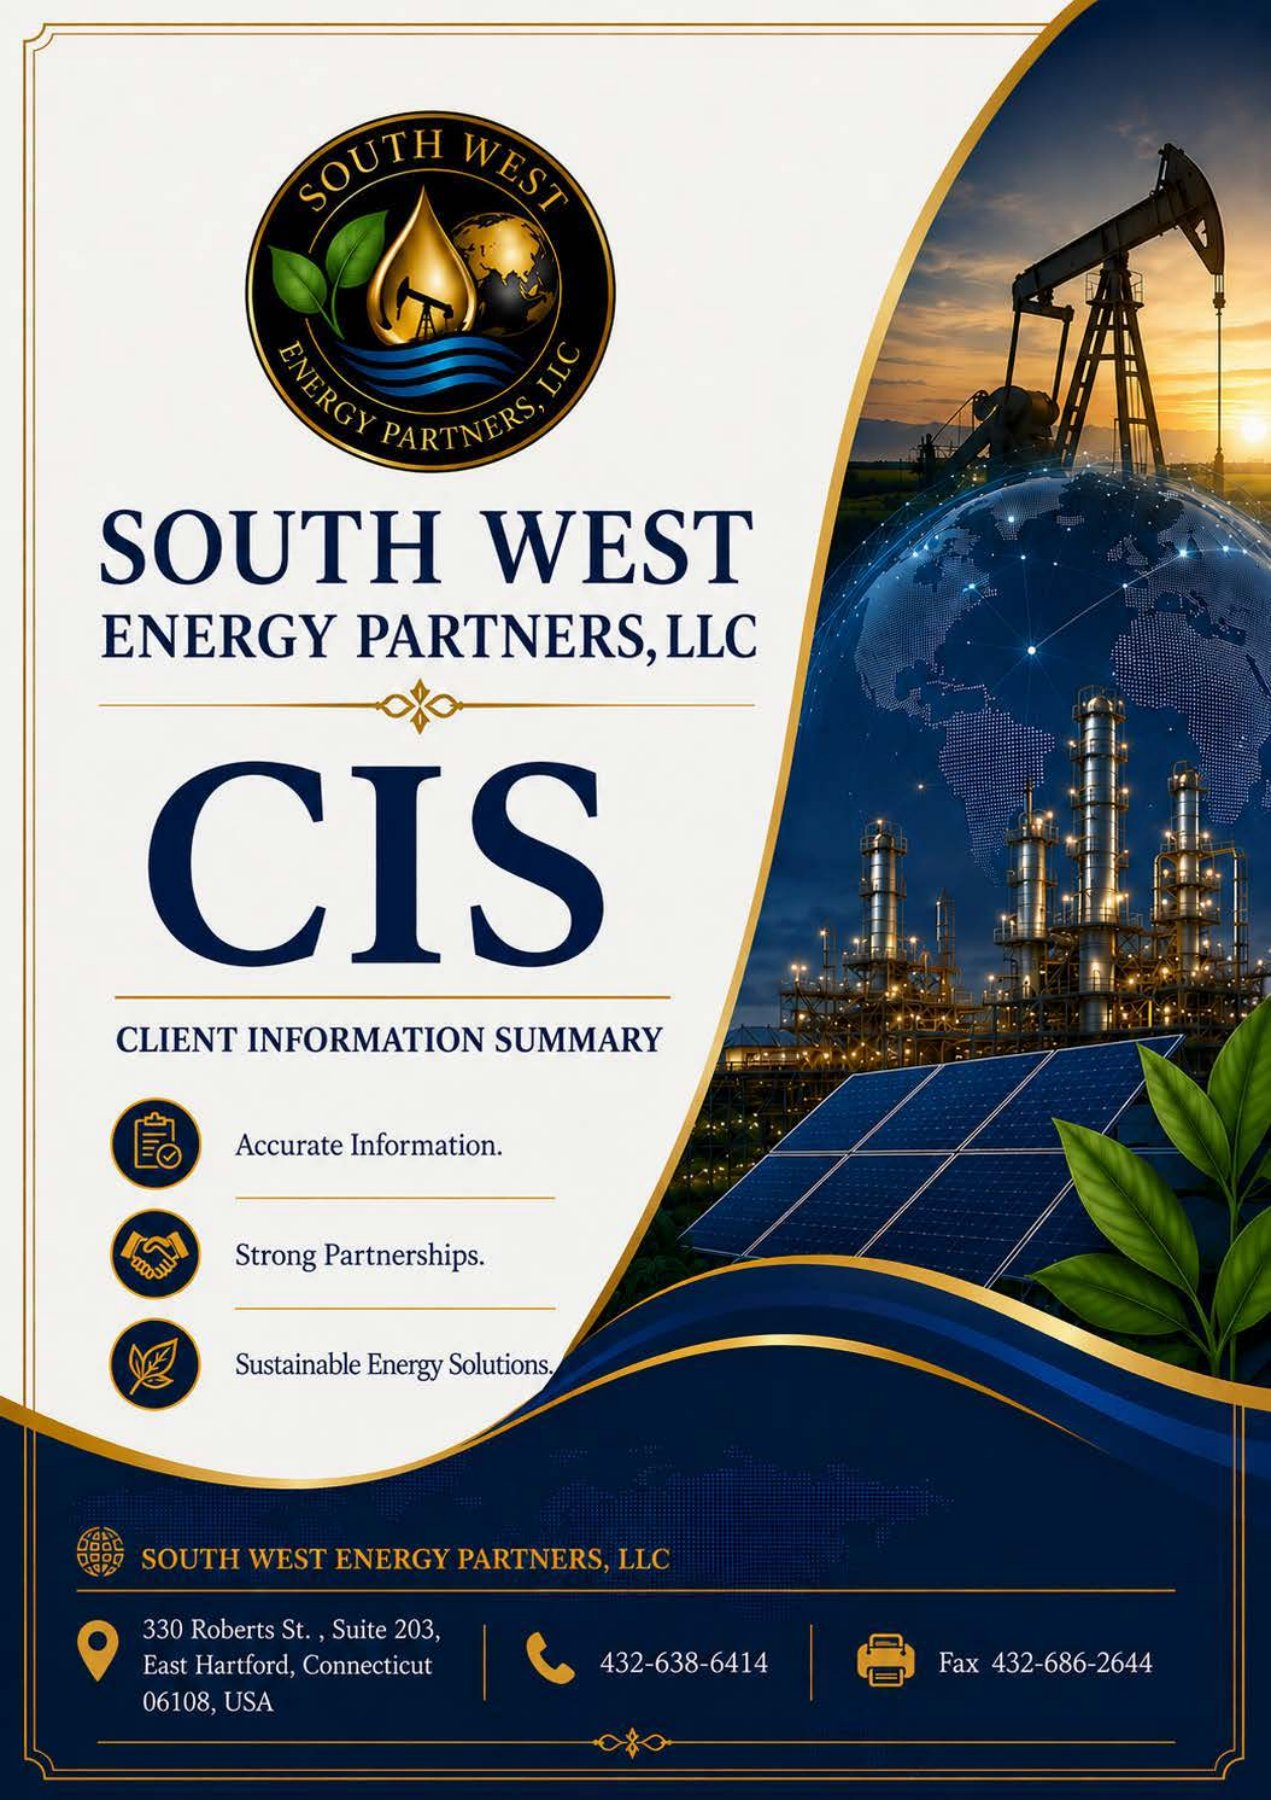
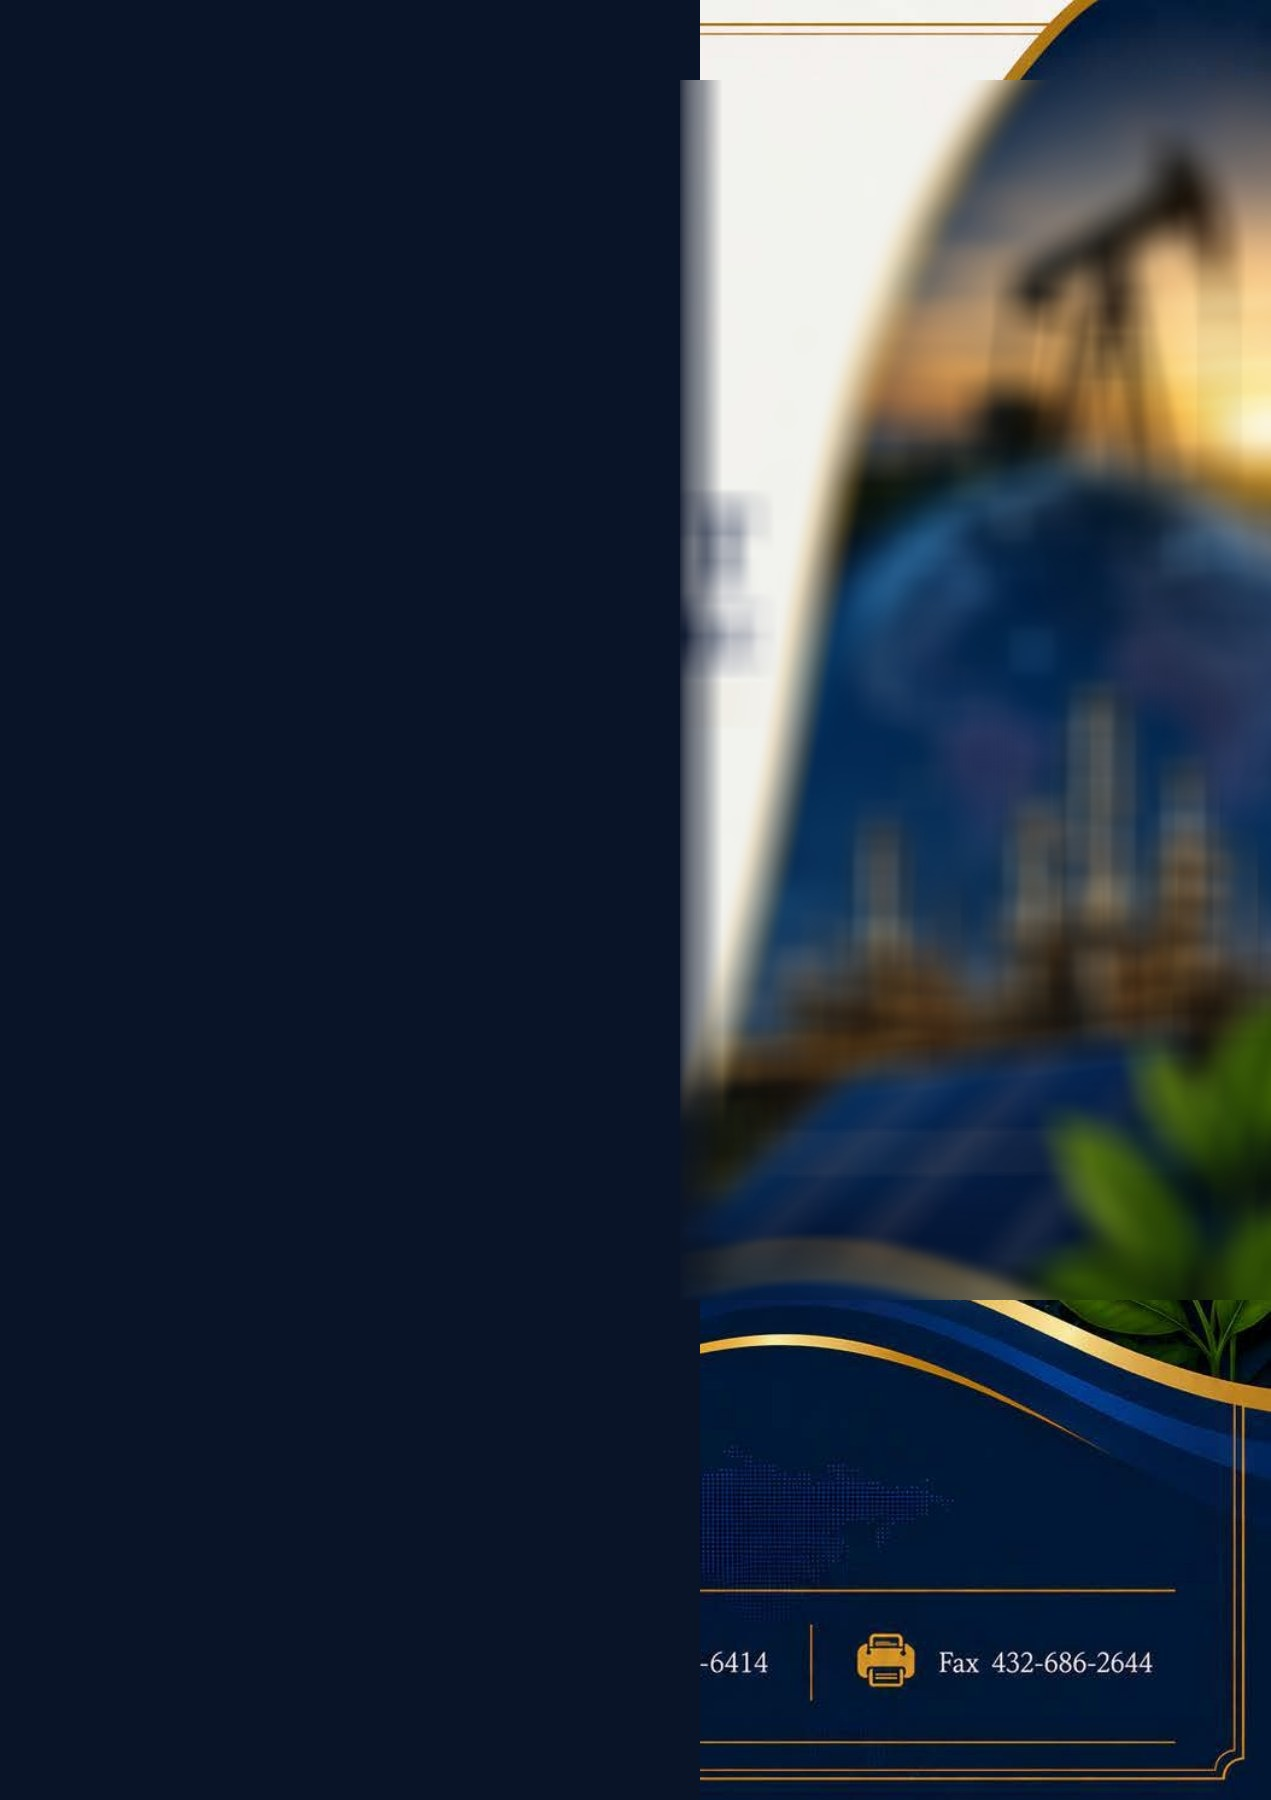
Remove CIS text from image + restore full background visibility
- Rebuilt cis-hero.jpg: solid dark navy fill covers entire left white
  document area (logo, company name, CIS letters, bullets, footer text)
- Applied 22px box blur to right photo collage in the text region so
  any letter strokes on the photos are fully erased
- Restored image opacity 0.22 → 0.42 (fully visible background)
- Removed CSS blur filter (text removed at source, no longer needed)
- Blue shadow radial glow kept on right side of hero

diff --git a/index.html b/index.html
@@ -337,8 +337,7 @@
       width: 100%; height: 100%;
       object-fit: cover;
       object-position: center center;
-      opacity: 0.22;
-      filter: blur(2.5px) brightness(0.8);
+      opacity: 0.42;
     }
     .hero-photo-overlay {
       position: absolute;
@@ -346,9 +345,9 @@
       background: linear-gradient(
         to right,
         #071230 0%,
-        rgba(7,18,48,0.75) 25%,
-        rgba(12,28,90,0.45) 60%,
-        rgba(10,22,70,0.65) 100%
+        rgba(7,18,48,0.88) 30%,
+        rgba(7,18,48,0.40) 65%,
+        rgba(7,18,48,0.55) 100%
       );
     }
     /* Blue shadow glow layer */
@@ -356,14 +355,14 @@
       position: absolute;
       inset: 0;
       background:
-        radial-gradient(ellipse 70% 70% at 80% 50%, rgba(20,60,200,0.28) 0%, rgba(10,30,120,0.12) 50%, transparent 75%),
-        radial-gradient(ellipse 50% 60% at 65% 30%, rgba(30,80,220,0.18) 0%, transparent 60%);
+        radial-gradient(ellipse 65% 80% at 85% 50%, rgba(15,50,180,0.35) 0%, rgba(10,30,120,0.15) 55%, transparent 80%),
+        radial-gradient(ellipse 45% 55% at 70% 25%, rgba(20,65,200,0.22) 0%, transparent 60%);
       z-index: 1;
       pointer-events: none;
     }
     @media (max-width: 768px) {
       .hero-photo { width: 100%; }
-      .hero-photo img { opacity: 0.10; filter: blur(3px) brightness(0.7); }
+      .hero-photo img { opacity: 0.20; }
       .hero-blue-shadow { display: none; }
       .hero-photo-overlay {
         background: linear-gradient(
